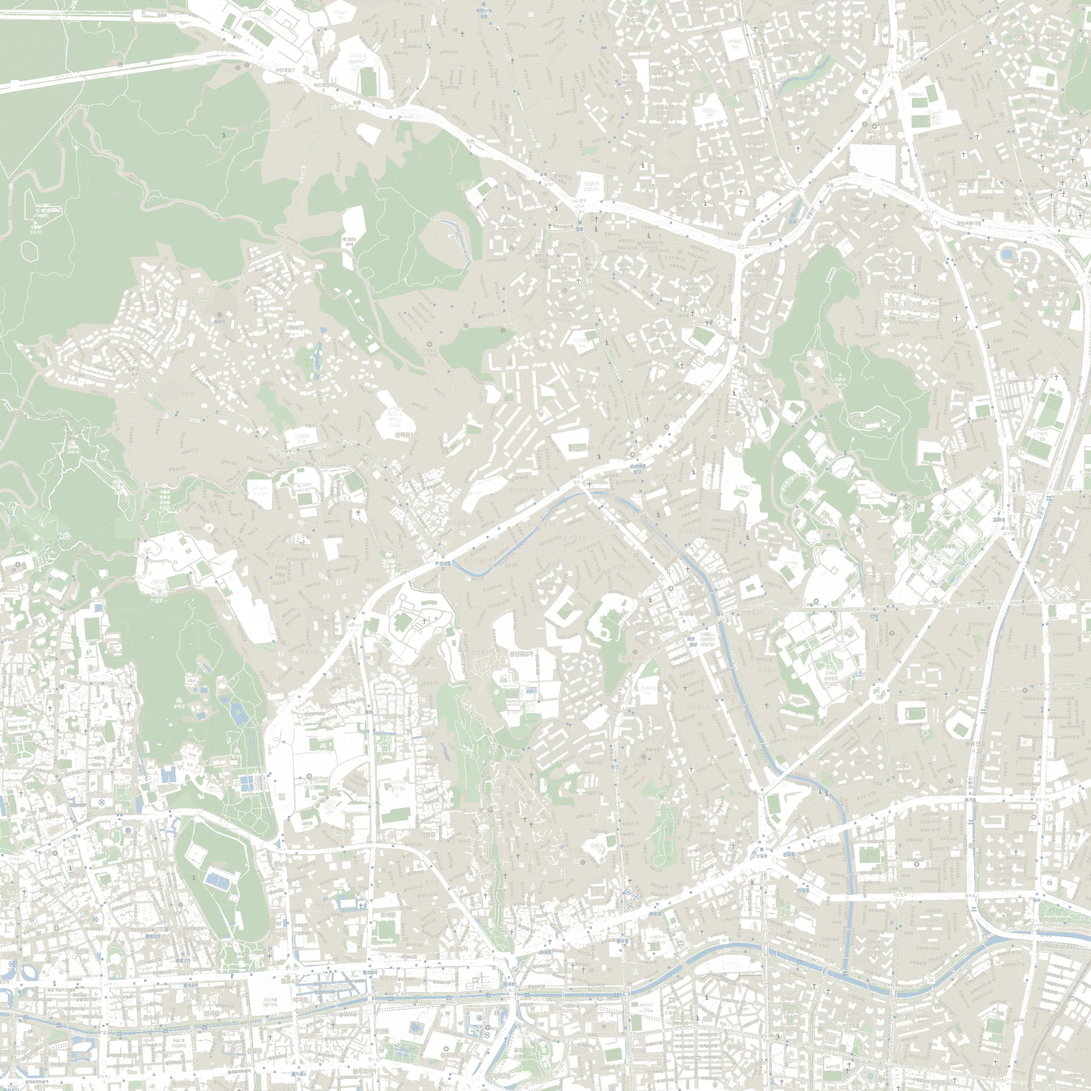
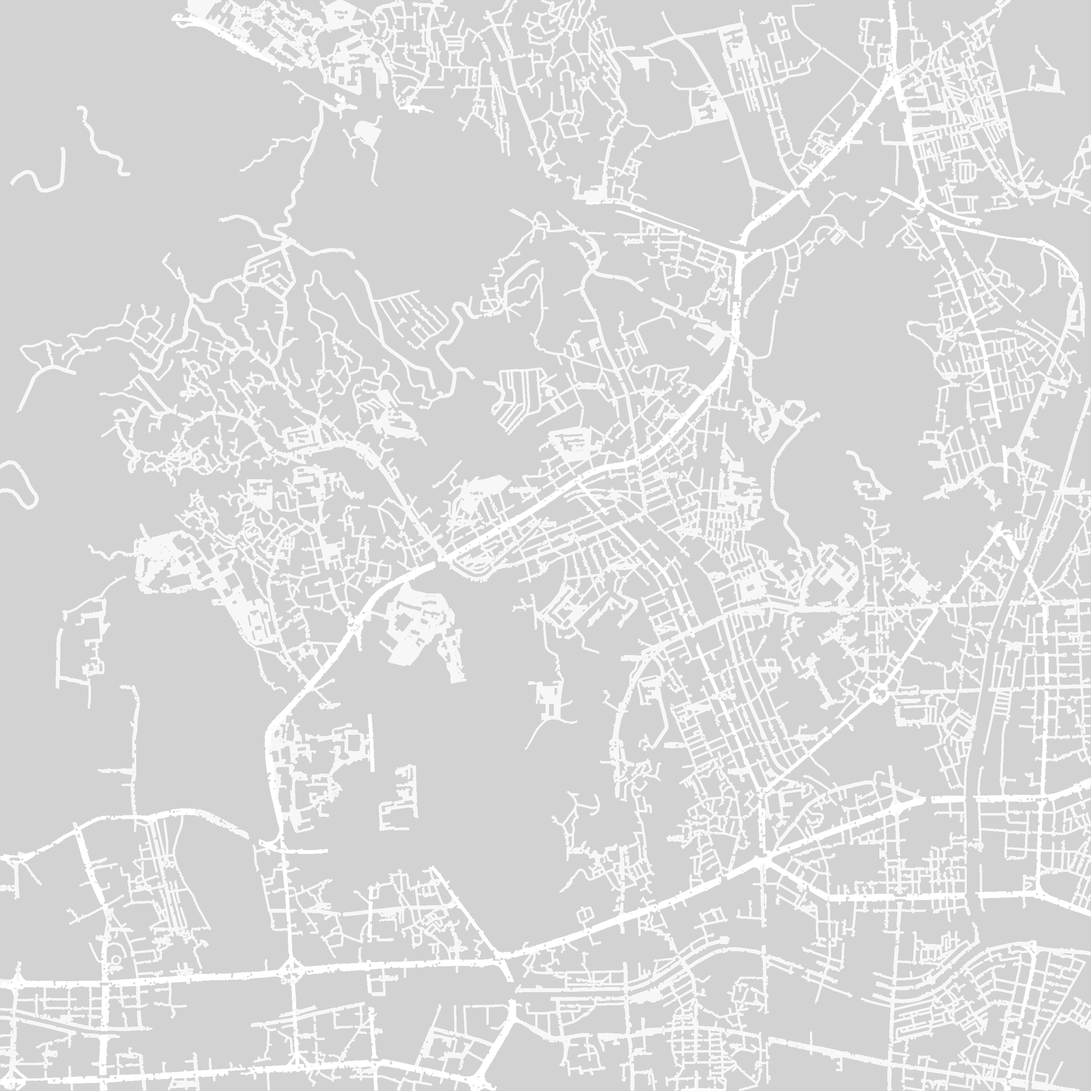
Day 44: 지도를 흑백 도로만 남기고, 경로 재탐색이 지도로 되돌리게

diff --git a/2026-11-09/index.html b/2026-11-09/index.html
@@ -38,12 +38,6 @@
   }
   .reroute:hover { transform: translateX(-50%) translateY(-1px); }
   .reroute:active { transform: translateX(-50%) translateY(1px); }
-  .back {
-    right: 24px; bottom: 28px; opacity: 0; pointer-events: none;
-    font: 700 12px/1 'Noto Sans KR', sans-serif; letter-spacing: .06em;
-    padding: 13px 18px;
-  }
-  .back.show { opacity: 1; pointer-events: auto; }
 
   /* out there the paper is black, so the cards turn over */
   body.space .chip {
@@ -69,7 +63,6 @@
   <a class="chip home-btn" href="../index.html">HOME</a>
   <button class="chip snd" id="snd">SOUND: OFF</button>
   <button class="chip reroute" id="rr">경로 재탐색</button>
-  <button class="chip back" id="bk">지구로 돌아가기</button>
   <div class="hint" id="hint">드래그 · 방향키 — 경로를 벗어나 보세요</div>
 
 <script>
@@ -139,11 +132,11 @@
   ];
   // what the button says back, per act, in the order you press it
   const RR = [
-    ['이미 경로 위에 있습니다', '정말 괜찮습니다', '목적지까지 12분 남았습니다'],
-    ['재탐색 중…', '새 경로를 찾았습니다', '아니요, 못 찾았습니다'],
-    ['재탐색 실패', '다시 시도합니다 …실패', '지도를 전부 뒤졌습니다'],
-    ['재탐색할 도로가 없습니다', '여기엔 아무것도 깔려 있지 않아요', '그만 누르셔도 됩니다'],
-    ['…', '자꾸 누르시네요', '좋아요, 계속 가 봅시다', '어디까지 가는지 봅시다'],
+    ['이미 경로 위에 있습니다', '정말 괜찮습니다', '목적지까지 2분 남았습니다'],
+    ['재탐색 중…', '경로를 찾았습니다', '원래 길로 돌아갑니다'],
+    ['지도를 다시 불러옵니다', '도로를 찾았습니다', '돌아가는 중입니다'],
+    ['고도를 낮춥니다', '지면이 보입니다', '곧 도로에 닿습니다'],
+    ['…좌표를 다시 잡았습니다', '삼선동으로 돌아갑니다', '처음부터 다시 안내합니다'],
   ];
 
   const actOf = d => { let k = 0; for (let i = 0; i < ACTS.length; i++) if (d >= ACTS[i].at) k = i; return k; };
@@ -709,7 +702,6 @@
     clipR = Math.min(Math.hypot(W, H), PR * gs);
 
     document.body.classList.toggle('space', night > 0.45);
-    bk.classList.toggle('show', night > 0.5 && backing === 0);
     if (d > 0.15) hint.classList.add('off');
 
     if (act !== prevAct) { lineAct = act; lineIdx = 0; forced = 0; say(ACTS[act].lines[0], act >= 4 ? 3 : act >= 1 ? 1 : 0); }
@@ -773,7 +765,6 @@
   const keys = new Set();
   const snd = document.getElementById('snd');
   const rr = document.getElementById('rr');
-  const bk = document.getElementById('bk');
   const hint = document.getElementById('hint');
 
   let dragging = false, px0 = 0, py0 = 0;
@@ -806,31 +797,15 @@
   function syncSnd() { snd.textContent = 'SOUND: ' + (sound.live() ? 'ON' : 'OFF'); }
   snd.addEventListener('click', () => { sound.toggle(); syncSnd(); });
 
-  // Pressing it is the whole interaction. Early on it refuses to help,
-  // later it quietly pushes you further out — which is how you get there.
+  // the one control. However far out you are, it walks you back to the map.
   rr.addEventListener('click', () => {
     sound.kick(); syncSnd();
     const act = actOf(d);
     const pool = RR[act];
-    const txt = pool[rrCount[act] % pool.length];
+    line = pool[rrCount[act] % pool.length]; lineT = 0; forced = 3.2;
     rrCount[act]++;
-    line = txt; lineT = 0; forced = 2.8;
     sound.ding(act >= 3 ? 3 : act >= 2 ? 2 : 1);
-    if (act >= 1) {
-      const a = hsh(rrCount[act], act, 23) * TAU;
-      const push = 220 + act * 260;
-      const cur = Math.hypot(wx, wy) || 1;
-      wx += wx / cur * push + Math.cos(a) * push * 0.5;
-      wy += wy / cur * push + Math.sin(a) * push * 0.5;
-      backing = 0;
-    }
-  });
-
-  bk.addEventListener('click', () => {
-    sound.kick(); syncSnd();
-    backing = 1;
-    line = '지구로 돌아갑니다'; lineT = 0; forced = 3.2;
-    sound.ding(0);
+    if (act >= 1) backing = 1;
   });
 
   function resize() {
@@ -855,7 +830,7 @@
   window.__st = () => ({
     d, alt, night, act: actOf(d), speed, line, frames,
     space: document.body.classList.contains('space'),
-    back: bk.classList.contains('show'),
+    back: backing > 0,
     live: sound.live(),
   });
 })();
